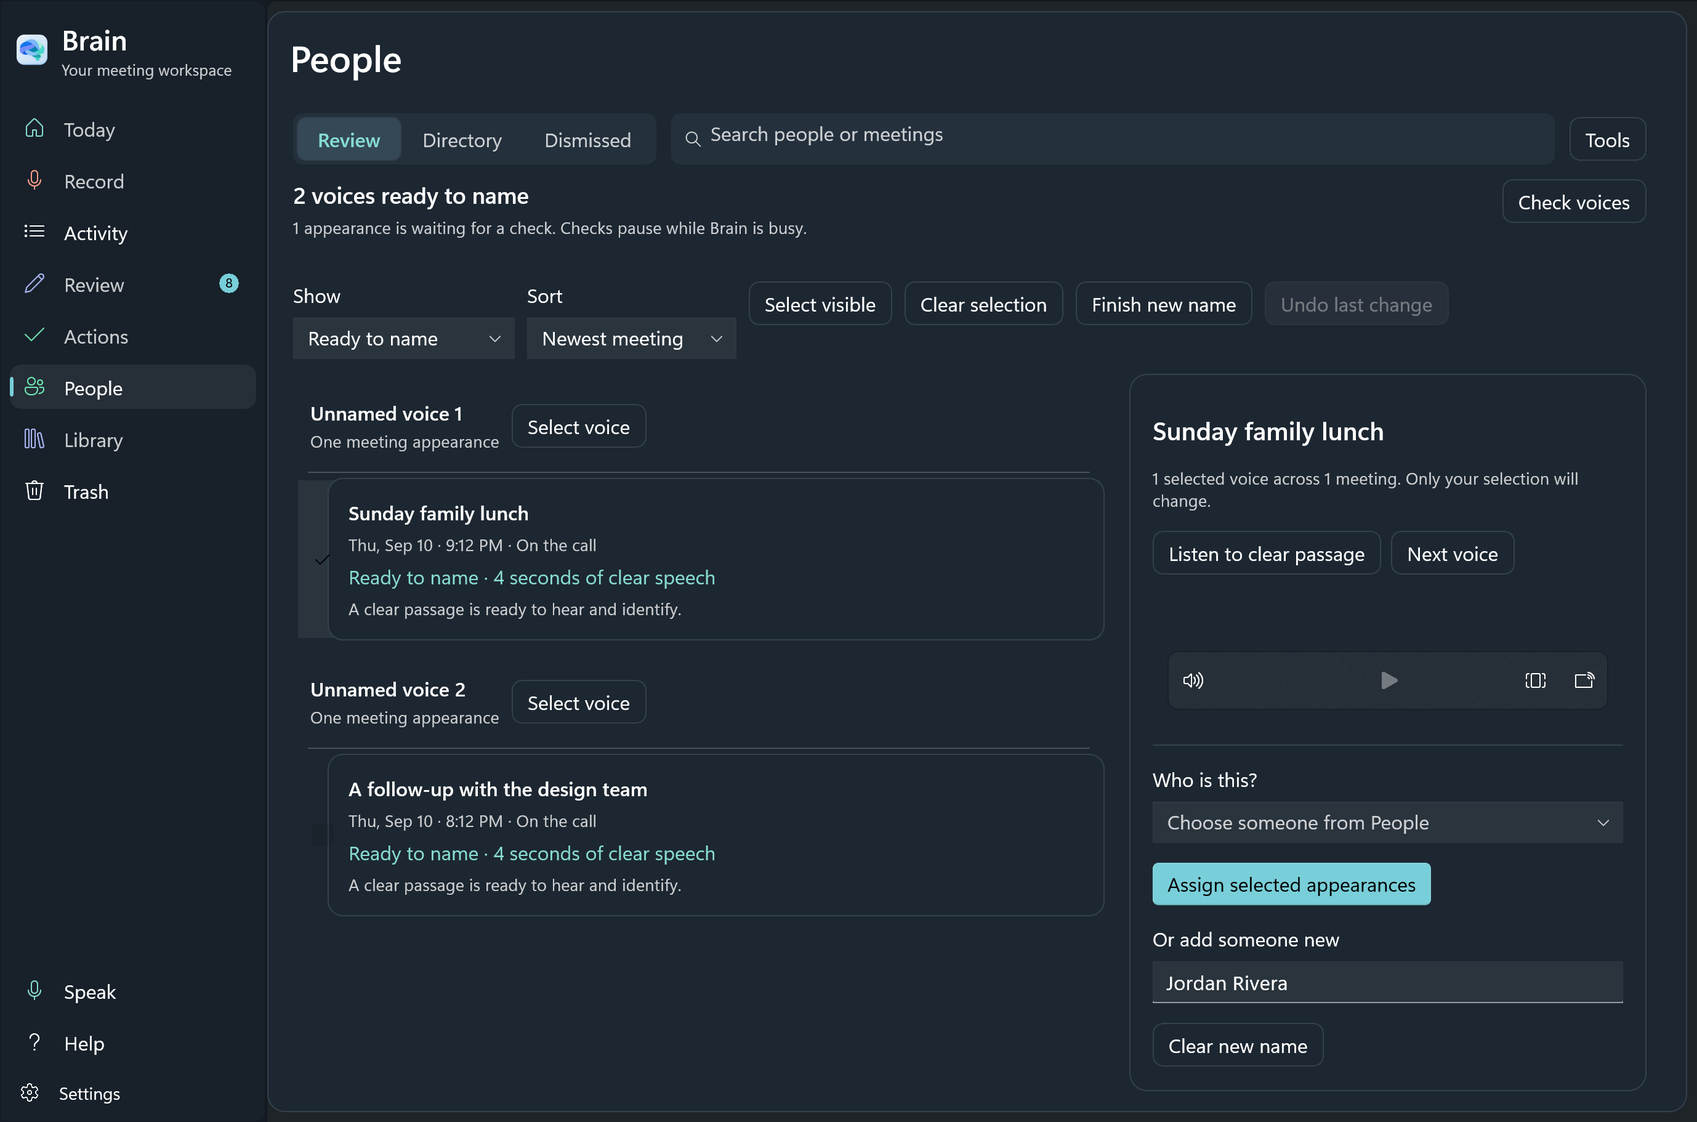
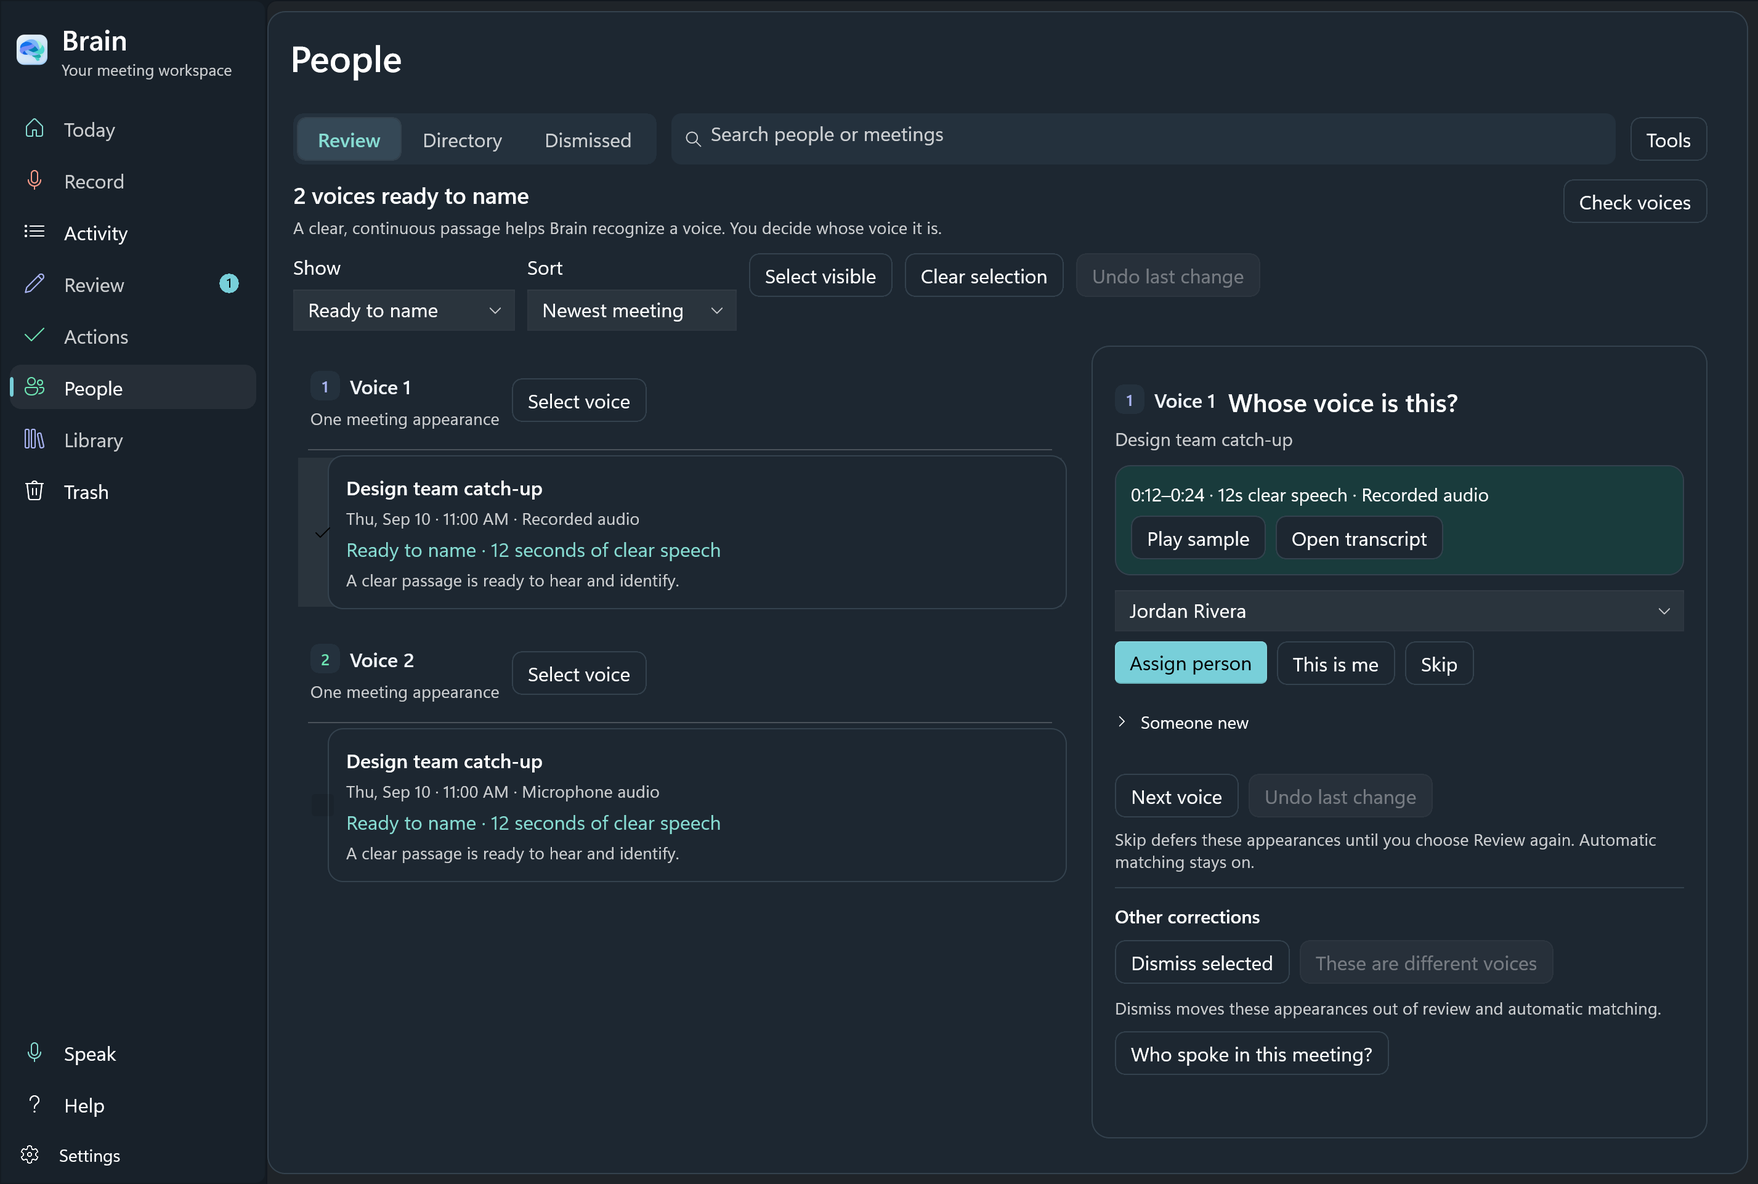
Refresh speaker showcases with current native Windows screenshots

diff --git a/index.html b/index.html
@@ -57,11 +57,14 @@
     <div class="walkthrough-scenes">
       <article class="demo-scene" id="scene-detect"><div class="scene-copy"><h3>The call starts.<br>You choose what follows.</h3><p>Brain detects Zoom and Microsoft Teams calls. In Windows Settings, choose whether to record automatically, ask first, or leave recording to you.</p><p class="fine-print">Tell everyone before recording. Physical microphones and real calls remain unverified in this Windows preview.</p><a href="help.html">Windows setup <svg class="icon" aria-hidden="true"><use href="#icon-arrow"></use></svg></a></div><figure class="native-figure"><a href="assets/windows-detection.png"><img src="assets/windows-detection.png" alt="Brain for Windows recording settings, including the policy for detected Zoom and Teams calls." data-native="windows-detection" loading="lazy" decoding="async" ></a><figcaption>Recording settings in the Windows app <a href="assets/windows-detection.png" aria-label="Inspect recording settings full size"><svg class="icon" aria-hidden="true"><use href="#icon-expand"></use></svg></a></figcaption></figure></article>
       <article class="demo-scene" id="scene-live"><div class="scene-copy"><h3>The conversation,<br>in front of you.</h3><p>Follow the live transcript while you listen. Keep microphone and call audio in view, pause following, or ask the meeting assistant for context.</p><p class="fine-print">Live text is provisional. Transcription speed and availability depend on your computer and setup.</p><a href="assets/windows-live.png">See the whole workspace <svg class="icon" aria-hidden="true"><use href="#icon-arrow"></use></svg></a></div><figure class="native-figure"><a href="assets/windows-transcript-detail.png"><img src="assets/windows-transcript-detail.png" alt="A readable detail of Brain’s actual live transcript, with its speaker labels and timestamps." data-native="windows-transcript-detail" loading="lazy" decoding="async" ></a><figcaption>Live transcript view · sample content <a href="assets/windows-transcript-detail.png" aria-label="Inspect live transcript full size"><svg class="icon" aria-hidden="true"><use href="#icon-expand"></use></svg></a></figcaption></figure></article>
-      <article class="demo-scene" id="scene-speakers"><div class="scene-copy"><h3>Who said what,<br>with context.</h3><p>Speaker diarization separates the voices in a conversation. Review the transcript, listen to the passages, and name the people behind them.</p><p class="fine-print">An audio-source label is not a confirmed identity. Check names and correct them when needed.</p><a href="#memory">How Brain remembers voices <svg class="icon" aria-hidden="true"><use href="#icon-arrow"></use></svg></a></div><figure class="native-figure"><a href="assets/windows-people.png"><img src="assets/windows-people.png" alt="The real Windows People workspace for reviewing voices and assigning a person." data-native="windows-people" loading="lazy" decoding="async" ></a><figcaption>People in Brain for Windows · sample data <a href="assets/windows-people.png" aria-label="Inspect the People workspace full size"><svg class="icon" aria-hidden="true"><use href="#icon-expand"></use></svg></a></figcaption></figure></article>
+      <article class="demo-scene" id="scene-speakers"><div class="scene-copy"><h3>Who said what,<br>with context.</h3><p>Follow distinct speaker turns, replay a passage, and correct a name in place. Unidentified voices stay separate while you review who said what.</p><p class="fine-print">A voice match is different from a confirmed identity. Check names and correct them when needed.</p><a href="#memory">How Brain remembers voices <svg class="icon" aria-hidden="true"><use href="#icon-arrow"></use></svg></a></div><figure class="native-figure"><a href="assets/windows-speakers-detail.png"><img src="assets/windows-speakers-detail.png" alt="Brain's saved Windows transcript with distinct voice labels, speaker turns, and passage playback controls." data-native="windows-speakers-detail" loading="lazy" decoding="async"></a><figcaption>Speaker review in Brain for Windows · sample conversation <a href="assets/windows-speakers.png" aria-label="Inspect the full speaker transcript workspace"><svg class="icon" aria-hidden="true"><use href="#icon-expand"></use></svg></a></figcaption></figure></article>
     </div>
   </div></section>
 
-  <section class="memory-section section-pad wrap" id="memory" aria-labelledby="memory-title"><div class="memory-composition"><figure class="memory-main native-figure"><a href="assets/windows-people.png"><img src="assets/windows-people.png" alt="Brain’s native Windows People screen, showing voices available for review." data-native="windows-people" loading="lazy" decoding="async" ></a><figcaption>Actual Windows People workspace · sample data</figcaption></figure><figure class="memory-detail"><a href="assets/windows-person-detail.png"><img src="assets/windows-person-detail.png" alt="An enlarged crop of the native controls for listening to a voice and assigning a person." data-native="windows-person-detail" loading="lazy" decoding="async" ></a><figcaption>A closer look at voice review.</figcaption></figure></div><div class="feature-copy"><h2 id="memory-title">Remember the people.<br>Not just the words.</h2><p>Listen to a clear passage. Confirm who it belongs to. Saved voices help Brain recognize people in later conversations.</p><p>Build on the voices you have already confirmed, meeting after meeting.</p><p class="fine-print">Voice matches still need your judgment. Uncertain or new voices may remain unnamed.</p><a class="text-link" href="assets/windows-person-detail.png">Inspect voice review <svg class="icon" aria-hidden="true"><use href="#icon-expand"></use></svg></a></div></section>
+  <section class="memory-section section-pad wrap" id="memory" aria-labelledby="memory-title"><div class="memory-composition">
+      <figure class="memory-main native-figure"><a href="assets/windows-person-detail.png"><img src="assets/windows-person-detail.png" alt="Native voice review with the assessed sample, Assign person, This is me, and Skip controls." data-native="windows-person-detail" loading="lazy" decoding="async"></a><figcaption>Voice review in Brain for Windows · sample content</figcaption></figure>
+      <figure class="memory-detail"><a href="assets/windows-people.png"><img src="assets/windows-people.png" alt="The complete Windows People workspace around the voice-review inspector." data-native="windows-people" loading="lazy" decoding="async"></a><figcaption><a href="assets/windows-people.png">Inspect the full People workspace <svg class="icon" aria-hidden="true"><use href="#icon-expand"></use></svg></a></figcaption></figure>
+    </div><div class="feature-copy"><h2 id="memory-title">Remember the people.<br>Not just the words.</h2><p>Listen to a clear passage. Confirm who it belongs to. Saved voices help Brain recognize people in later conversations.</p><p>Build on the voices you have already confirmed, meeting after meeting.</p><p class="fine-print">Voice matches still need your judgment. Uncertain or new voices may remain unnamed.</p><a class="text-link" href="assets/windows-person-detail.png">Inspect voice review <svg class="icon" aria-hidden="true"><use href="#icon-expand"></use></svg></a></div></section>
 
   <section class="outcomes-section section-pad" id="outcomes" aria-labelledby="outcomes-title"><div class="wrap"><div class="section-heading"><h2 id="outcomes-title">Good conversations<br>deserve a next step.</h2><p>Ask a question, check its source, and keep the next steps you agree with. Keep the conversation useful long after the call.</p></div><figure class="outcome-frame native-figure"><a class="screenshot-link" href="assets/meeting-chat-1568.webp"><img src="assets/meeting-chat-1568.webp" alt="The actual Windows review workspace with a generated sample meeting summary, decisions, and the meeting assistant’s answer." loading="lazy" decoding="async"></a><figcaption>Actual Windows app · generated sample meeting and local-model answer <a href="assets/meeting-chat-1568.webp">Inspect full size <svg class="icon" aria-hidden="true"><use href="#icon-expand"></use></svg></a></figcaption></figure><div class="outcome-controls" role="group" aria-label="Explore the saved meeting" hidden><button type="button" data-outcome="chat" aria-pressed="true">Ask a question</button><button type="button" data-outcome="summary" aria-pressed="false">Review the summary</button><button type="button" data-outcome="actions" aria-pressed="false">Find the next step</button></div><p class="sr-only" id="outcome-status" role="status"></p><div class="outcome-links"><a href="assets/meeting-summary-1568.webp"><strong>Review the summary</strong><span>Editable notes and supporting passages <svg class="icon" aria-hidden="true"><use href="#icon-arrow"></use></svg></span></a><a href="assets/meeting-actions-1568.webp"><strong>Keep a next step</strong><span>Decisions and actions you can review <svg class="icon" aria-hidden="true"><use href="#icon-arrow"></use></svg></span></a></div></div></section>
 

diff --git a/screenshots.html b/screenshots.html
@@ -1,7 +1,7 @@
 <!doctype html><html lang="en"><head><meta charset="utf-8"><meta name="viewport" content="width=device-width,initial-scale=1"><title>Brain — About the screenshots</title><meta name="description" content="Where the native Windows app screenshots on the Brain website come from."><link rel="icon" href="assets/favicon-32.png"><link rel="stylesheet" href="style.css"><link rel="stylesheet" href="showcase.css"></head><body>
 <a class="skip-link" href="#main">Skip to content</a><header class="site-header wrap"><a class="brand" href="index.html"><img src="assets/brain-icon-96.png" width="44" height="44" alt=""><span>Brain</span></a><nav aria-label="Main navigation"><a href="index.html">Home</a><a href="screenshots.html" aria-current="page">Screenshots</a><a href="privacy.html">Privacy</a></nav></header>
 <main id="main" class="wrap"><div class="reading-header"><h1>The real interface.<br>Sample content.</h1><p class="intro">The Windows screens on this prototype were rendered by Brain’s native WinUI interface. They are not HTML mockups or AI-generated images.</p></div><div class="reading-layout"><aside class="contents"><p>On this page</p><nav aria-label="On this page"><a href="#origin">Capture method</a><a href="#limits">What the samples mean</a><a href="#screens">Full captures</a></nav></aside><div class="reading">
-<section id="origin"><h2>Captured from Brain for Windows</h2><p>The new captures use unmodified production interface code from the local Windows development source, captured on September 10, 2026 (Edmonton time). A separate test desktop and fresh sample profile keep personal meetings and settings out of the images.</p><p>The website uses complete captures and crops of those same pixels. We have not redrawn controls, changed labels, recolored the app, or inserted invented elements into a screenshot. Website motion changes how a capture is presented; it does not show a running app session.</p><p>These are development-build captures, not a certification of the currently downloadable preview. The <a href="release-notes.html">Windows preview notes</a> describe current release limitations.</p></section>
-<section id="limits"><h2>What the sample content means</h2><p>The meeting names, transcript passages, assistant response, voice-review samples, and Speak history are seeded demonstration content. The recording duration, audio-health message, and Listening indicator are sample states of real controls. They are not evidence that a live call, speech model, microphone, or text-insertion workflow was run successfully.</p><p>The darker saved-review image farther down the homepage comes from the earlier ordinary Windows app journey. It shows generated sample audio and an actual local-model answer. Its original title and controls are retained.</p><p>Mac and Windows have different interfaces. The homepage’s native Windows showcase stays explicitly labelled Windows when you select the Mac download. <a href="mac.html">See the Mac setup guide</a> for that platform.</p></section>
-<section id="screens"><h2>Inspect the captures</h2><div class="evidence-grid"><figure><a href="assets/windows-live.png"><img src="assets/windows-live.png" alt="Full native Windows live transcript and meeting assistant capture." loading="lazy"></a><figcaption>Live transcript and assistant. The detail views on the homepage are crops of this capture.</figcaption></figure><figure><a href="assets/windows-detection-full.png"><img src="assets/windows-detection-full.png" alt="Full native recording settings capture." loading="lazy"></a><figcaption>Recording settings, including the policy for detected Zoom and Teams calls.</figcaption></figure><figure><a href="assets/windows-people.png"><img src="assets/windows-people.png" alt="Full native People voice-review capture." loading="lazy"></a><figcaption>People: listen to a passage, review the person, and assign a name.</figcaption></figure><figure><a href="assets/windows-speak.png"><img src="assets/windows-speak.png" alt="Full native Brain Speak capture." loading="lazy"></a><figcaption>Speak: the actual shortcut, recent dictations, and preferences interface.</figcaption></figure></div></section>
+<section id="origin"><h2>Captured from Brain for Windows</h2><p>The new captures use unmodified production interface code from the local Windows development source, captured on September 10, 2026 (Edmonton time). A separate test desktop and fresh sample profile keep personal meetings and settings out of the images.</p><p>The website uses complete captures and crops of those same pixels. We have not redrawn controls, changed labels, recolored the app, or inserted invented elements into a screenshot. Website motion changes how a capture is presented; it does not show a running app session.</p><p>The saved-transcript and People captures show the revised speaker interface. The other captures retain their earlier development versions. These are development-build captures, not a certification of the currently downloadable preview. The <a href="release-notes.html">Windows preview notes</a> describe current release limitations.</p></section>
+<section id="limits"><h2>What the sample content means</h2><p>The meeting names, transcript passages, assistant response, voice-review samples, and Speak history are seeded demonstration content. The recording duration, audio-health message, and Listening indicator are sample states of real controls. They are not evidence that a live call, speech model, microphone, or text-insertion workflow was run successfully.</p><p>The saved meeting summary and assistant images in the next-step section come from the earlier ordinary Windows app journey. They show generated sample audio and an actual local-model answer. Their original titles and controls are retained.</p><p>Mac and Windows have different interfaces. The homepage’s native Windows showcase stays explicitly labelled Windows when you select the Mac download. <a href="mac.html">See the Mac setup guide</a> for that platform.</p></section>
+<section id="screens"><h2>Inspect the captures</h2><div class="evidence-grid"><figure><a href="assets/windows-speakers.png"><img src="assets/windows-speakers.png" alt="Full native Windows saved transcript with distinct speaker turns and voice status labels." loading="lazy"></a><figcaption>Updated speaker review: distinct voices, confirmed names, and passage playback. The speaker-diarization section uses a crop of this capture.</figcaption></figure><figure><a href="assets/windows-live.png"><img src="assets/windows-live.png" alt="Full native Windows live transcript and meeting assistant capture." loading="lazy"></a><figcaption>Live transcript and assistant. The detail views on the homepage are crops of this capture.</figcaption></figure><figure><a href="assets/windows-detection-full.png"><img src="assets/windows-detection-full.png" alt="Full native recording settings capture." loading="lazy"></a><figcaption>Recording settings, including the policy for detected Zoom and Teams calls.</figcaption></figure><figure><a href="assets/windows-people.png"><img src="assets/windows-people.png" alt="Full native People voice-review capture." loading="lazy"></a><figcaption>Updated People review: hear the assessed sample, assign a person, confirm This is me, or Skip for later. The voice-memory detail is a crop of this capture.</figcaption></figure><figure><a href="assets/windows-speak.png"><img src="assets/windows-speak.png" alt="Full native Brain Speak capture." loading="lazy"></a><figcaption>Speak: the actual shortcut, recent dictations, and preferences interface.</figcaption></figure></div></section>
 </div></div></main><footer class="site-footer wrap"><p>Brain<span>Shared by Sami Shariff</span></p><nav aria-label="Footer navigation"><a href="index.html">Home</a><a href="agents.html">CLI &amp; agents</a><a href="privacy.html">Privacy</a><a href="notices.html">Notices</a></nav></footer></body></html>

diff --git a/showcase.css b/showcase.css
@@ -86,11 +86,12 @@
 .native-figure figcaption .icon { width:16px; height:16px; }
 .demo-scene .native-figure img { max-height:510px; object-fit:contain; }
 .memory-section { display:grid; grid-template-columns:1.15fr .85fr; align-items:center; gap:80px; }
-.memory-composition { position:relative; padding:28px 64px 150px 28px; min-width:0; background:#e7f0ed; border-radius:24px; }
+.memory-composition { padding:28px; min-width:0; background:#e7f0ed; border-radius:24px; }
 .memory-main img { aspect-ratio:auto; }
-.memory-detail { width:52%; position:absolute; right:18px; bottom:20px; margin:0; }
+.memory-detail { width:60%; max-width:320px; margin:24px 0 0 auto; }
 .memory-detail img { width:100%; border-radius:8px; box-shadow:0 18px 30px -16px #17392e77; }
 .memory-detail figcaption { font-size:12px; line-height:1.65; color:var(--muted); margin-top:10px; }
+.memory-detail figcaption .icon { width:14px; height:14px; vertical-align:middle; }
 .feature-copy h2 { margin-bottom:24px; }
 .feature-copy p { font-size:18px; line-height:1.75; color:var(--muted); }
 .feature-copy p+p { margin-top:18px; }
@@ -183,8 +184,7 @@
   .demo-scene, .memory-section, .agents-layout, .speak-section { grid-template-columns:1fr; gap:40px; }
   .scene-copy { max-width:560px; }
   .memory-section .feature-copy { grid-row:1; }
-  .memory-composition { max-width:620px; padding-bottom:160px; }
-  .memory-detail { width:44%; }
+  .memory-composition { max-width:620px; }
   .outcomes-section>.wrap { grid-template-columns:1fr; gap:32px; }
   .outcomes-section .section-heading { grid-row:auto; }
   .outcome-controls, .outcome-links, .agent-boundary { grid-column:auto; }
@@ -232,8 +232,8 @@
   .scene-copy p { font-size:16px; }
   .native-showcase .fine-print { font-size:13px; }
   .scene-copy>a, .feature-copy .text-link { font-size:14px; }
-  .memory-composition { padding:18px 32px 150px 18px; border-radius:16px; }
-  .memory-detail { width:66%; right:12px; bottom:18px; }
+  .memory-composition { padding:18px; border-radius:16px; }
+  .memory-detail { width:78%; }
   .outcome-frame { padding:10px; }
   .outcome-controls { gap:8px; }
   .outcome-controls button { padding:8px 10px; font-size:12px; }

diff --git a/PROTOTYPE.md b/PROTOTYPE.md
@@ -25,6 +25,46 @@ Keep the PR in draft and do not merge, enable auto-merge, or deploy until:
 A feature-branch push backs up the work. GitHub Pages currently publishes only
 `main` at the repository root, so this draft PR does not update the public site.
 
+## Speaker screenshot refresh
+
+The speaker-diarization scene now shows the saved transcript's distinct voice
+turns and playback controls. The voice-memory section shows the revised People
+sample and Assign person / This is me / Skip controls. Both use fresh native
+captures of the interface merged in
+[Windows PR #114](https://github.com/samishariff/Brain-Windows/pull/114), with
+seeded demonstration content. These development images do not establish that
+the revised UI is in the downloadable installer or that real speech was tested.
+
+`tools/native-captures.json` keeps the original source/date defaults for older
+images. Refreshed assets have their own `sourceCommit` and `capturedUtc`, as well
+as original-image hashes and exact pixel crops. `screenshots.html` links the full
+saved transcript and People captures. Source pixels are never repainted.
+
+The isolated capture receipt, fixture-only overlay, build log and original PNGs
+are retained locally in `artifacts/native-speaker-refresh/`. To import those
+captures again, run `tools/Import-SpeakerCaptures.ps1`; the committed
+`tools/speaker-capture-crops.json` defines the crops. If regenerating all older
+assets with `tools/Import-NativeCaptures.ps1`, run the speaker importer afterward
+to apply the refresh without changing the older images' provenance.
+
+The previous browser evidence is preserved in
+`artifacts/review-before-speaker-refresh/`. The current `npm test` review writes
+`artifacts/review/`; additional selected-speaker and People section captures at
+1440, 768, 390 and 320 pixels are in `artifacts/speaker-refresh-browser-final/`.
+These section captures use taller viewports to frame the complete section below
+the sticky header; the ordinary browser suite also checks standard screen sizes.
+The initial screenshot framing artifacts are retained in
+`artifacts/speaker-refresh-browser/`.
+
+Final native capture build/run passed. `npm test` passed all 14 browser test
+groups plus its crawled-route receipt, with zero findings and 23 screenshots.
+Independent review verified all four refreshed assets against original decoded
+native pixels/crops, preserved all eight older assets and their receipts, and
+cleared all eight final speaker/People section captures. No app inference,
+native Mac capture, distribution staging or publication was performed for this
+focused screenshot update.
+The publication and Mac-capture hold above still applies.
+
 ## Review it
 
 With Node.js 22 or later installed, run from this directory:
